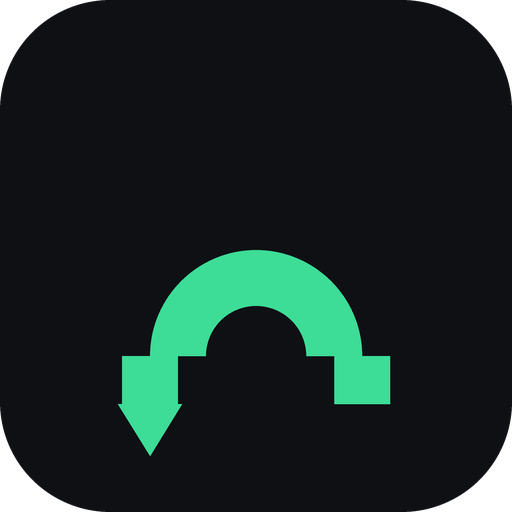
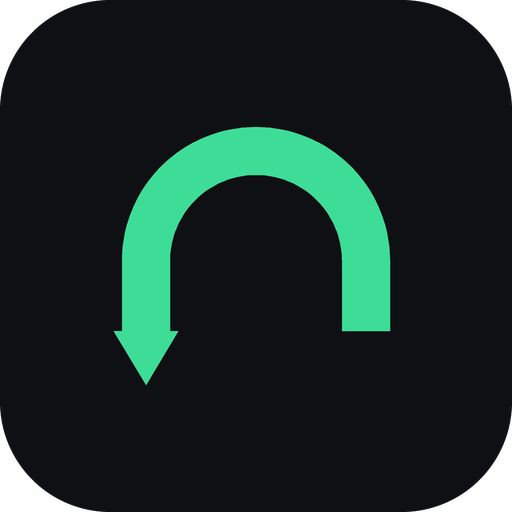
新增跨线路混合模式 + 修正图标重心
图标（用户反馈「内容偏下了」）
- 原图形重心落在 y=353，画布中心是 256 —— 偏下近 100px，是算错了
- 按「墨迹外框重心居中」重新解坐标，纵横向均落在 256
- 弧半径加大、线宽收细、腿加长，更接近路牌上的掉头标志
- 改用填充多边形一次成形，消除折线接缝
- favicon.svg 同步更新几何

跨线路混合模式（产品定位里的差异化功能）
- 题型：给一段连续项目（4 项），判断属于哪条线路
- 只出「唯一片段」——同一顺序不在其它线路出现的才拿来出题，
  否则题目本身有歧义，等于考用户猜出题人的心思
- 按线路分层抽样（每条最多 2 题），避免最独特的那条线霸占整轮
- 答错时给出对照：同一位置在所选线路上是什么，直接暴露差异点
- 首页新增入口卡片

测试
- 原 A–G + H–L 全通过
- 新增 M/N 两组：80 轮 × 2 车型的出题歧义/越界校验（全部唯一、下标合法）、
  四条线路均被覆盖、题目页与成绩页渲染

过程记录
- 首版 buildMix 用错了函数（routeItemsFor 返回原始节点，无 label 字段），
  导致标签全为 undefined、唯一片段数为 0。测试先跑出来才发现，而非上线后。

Changed region(s): [[0.2188, 0.25, 0.7812, 0.9062]]

diff --git a/prototype/index.html b/prototype/index.html
@@ -181,6 +181,30 @@
     background:var(--panel-2);color:var(--accent);font-size:12px;font-weight:600;font-family:inherit;cursor:pointer}
   .sbtn:active{transform:scale(.95)}
   .sayb{color:var(--accent-2);cursor:pointer;border-bottom:1px dashed rgba(77,163,255,.5);margin-left:7px;white-space:nowrap}
+  /* 跨线路混合 */
+  .mixhero{display:flex;align-items:center;gap:13px;margin-top:9px;padding:15px 16px;border-radius:14px;
+    background:linear-gradient(135deg,rgba(61,220,151,.1),transparent 70%),var(--panel);
+    border:1px solid rgba(61,220,151,.32);cursor:pointer}
+  .mixhero:active{transform:scale(.985)}
+  .mh-ico{width:36px;height:36px;flex:0 0 36px;border-radius:11px;background:rgba(61,220,151,.14);
+    display:flex;align-items:center;justify-content:center;font-size:16px;color:var(--accent)}
+  .mh-t{font-size:13.5px;font-weight:600;display:flex;align-items:center;gap:6px}
+  .mh-p{font-size:10.5px;color:var(--dim-2);margin-top:3px;line-height:1.5}
+  .fbadge{font-size:9.5px;font-weight:800;letter-spacing:.06em;padding:2px 6px;border-radius:5px;
+    background:rgba(61,220,151,.15);color:var(--accent)}
+  .segcard{background:var(--panel);border:1px solid var(--line);border-radius:14px;padding:16px;text-align:center}
+  .segitem{font-size:14px;font-weight:500;padding:9px 0}
+  .segarr{color:var(--dim-2);font-size:11px;line-height:1}
+  .mixopts{display:grid;grid-template-columns:1fr 1fr;gap:9px;margin-top:18px}
+  .mopt{padding:16px 10px;border-radius:12px;background:var(--panel);border:1px solid var(--line);
+    color:var(--text);font-size:14px;font-weight:600;font-family:inherit;cursor:pointer;transition:.14s}
+  .mopt:active{transform:scale(.97)}
+  .mopt.ok{background:rgba(61,220,151,.13);border-color:rgba(61,220,151,.5);color:var(--accent)}
+  .mopt.bad{background:rgba(255,107,107,.1);border-color:rgba(255,107,107,.45);color:var(--red)}
+  .cmp{margin-top:12px;padding:12px 14px;border-radius:11px;background:var(--panel);
+    font-size:11.5px;line-height:1.7;color:var(--dim)}
+  .cmp .ct{color:var(--dim-2);margin-bottom:5px}
+  .cmp .cv{color:var(--warn)}
   .fatal{padding:40px 24px;text-align:center;font-size:13px;color:var(--dim);line-height:1.9}
   .fatal b{color:var(--red);display:block;font-size:15px;margin-bottom:10px}
   @media(max-width:520px){
@@ -239,7 +263,7 @@ const LIGHTS  = window.KC3_LIGHTS;
 const OPS     = window.KC3_LIGHT_OPS;
 
 let S = { tab:'train', screen:'home', model:'c1', r:0, open:null, seen:false,
-          Q:null, L:null, sp:0, sq:null, mistakes:[], stats:{}, total:0 };
+          Q:null, L:null, sp:0, sq:null, mix:null, mistakes:[], stats:{}, total:0 };
 
 /* 本地持久化：SPA 无需后端即可保留进度 */
 const LS='kc3.v1';
@@ -289,7 +313,7 @@ function routeItems(r){
 
 /* ============================================================ 渲染 */
 function render(){
-  const M={home:vHome,order:vOrder,lights:vLights,scan:vScan,mine:vMine,special:vSpecial,sq:vSQ};
+  const M={home:vHome,order:vOrder,lights:vLights,scan:vScan,mine:vMine,special:vSpecial,sq:vSQ,mix:vMix};
   $('app').innerHTML=(M[S.screen]||vHome)();
   $('app').scrollTop=0;
   tabs(); bind(); save();
@@ -328,6 +352,15 @@ function vHome(){
         <div class="ht">灯光模拟</div><div class="hp">两车型相同 · 抽 5 题</div></div>
       <div class="hero" data-go="special"><div class="ico o">⚑</div>
         <div class="ht">难点专项</div><div class="hp">${SPECIAL[S.model].length} 个高频失分点</div></div>
+    </div>
+
+    <div class="mixhero" data-go="mix">
+      <div class="mh-ico">⇄</div>
+      <div style="flex:1">
+        <div class="mh-t">跨线路混合 <span class="fbadge">进阶</span></div>
+        <div class="mh-p">给一段「线路指纹」猜是哪条线 —— 专治「练 A 考 B」</div>
+      </div>
+      <div class="arw">›</div>
     </div>
 
     <div class="sechead">路线顺序训练</div>
@@ -559,6 +592,101 @@ function vMine(){
   </div>`;
 }
 
+/* ---------- 跨线路混合：给一段「线路指纹」，猜是哪条线 ---------- */
+const MIX_WIN = 4, MIX_SKIP = 3;   // 片段长度 / 跳过开头的通用项（上车准备·灯光·起步）
+
+/* 只保留「独此一家」的连续片段。同一个片段若在别的线路也按同样顺序出现，
+   这题就没有唯一答案——必须剔除，否则是在考用户猜出题人的心思。
+   最后按线路分层抽样（每条最多 PER 题），避免最独特的那条线霸占整轮。 */
+const MIX_PER = 2;
+function buildMix(){
+  const labels = ROUTES.map(r => routeItems(r).map(x => x.label));
+  const byRoute = ROUTES.map(() => []);
+  ROUTES.forEach((r, ri) => {
+    const a = labels[ri];
+    for(let i = MIX_SKIP; i + MIX_WIN <= a.length; i++){
+      const seg = a.slice(i, i + MIX_WIN), k = seg.join('|');
+      let dup = false;
+      for(let oi = 0; oi < labels.length && !dup; oi++){
+        if(oi === ri) continue;
+        const b = labels[oi];
+        for(let j = 0; j + MIX_WIN <= b.length; j++)
+          if(b.slice(j, j + MIX_WIN).join('|') === k){ dup = true; break; }
+      }
+      if(!dup) byRoute[ri].push({ ri, from:i, seg });
+    }
+  });
+  const picked = [];
+  byRoute.forEach(list => picked.push(...sh(list).slice(0, MIX_PER)));
+  return sh(picked);
+}
+function segAt(ri, from){
+  const b = routeItems(ROUTES[ri]).map(x => x.label);
+  return (from + MIX_WIN <= b.length) ? b.slice(from, from + MIX_WIN) : null;
+}
+
+function vMix(){
+  if(!S.mix || S.mix.model !== S.model)
+    S.mix = { model:S.model, list:buildMix(), i:0, ok:0, log:[] };
+  const X = S.mix;
+  if(!X.list.length) return `<div class="screen">
+    <div class="nav"><div class="back" data-go="home">‹</div><div class="navtitle">跨线路混合</div></div>
+    <div class="empty">当前车型下各线路差异不足以出题。</div></div>`;
+  if(X.i >= X.list.length) return vMixResult();
+
+  const q = X.list[X.i], picked = X.log[X.i], done = picked !== undefined;
+  const r = ROUTES[q.ri];
+  const pos = `第 ${q.from+1}–${q.from+MIX_WIN} 步`;
+
+  let feedback = '';
+  if(done){
+    if(picked === q.ri){
+      feedback = `<div class="expl"><b>答对了</b>｜这段是 ${r.name} 的${pos}。</div>`;
+    } else {
+      const rv = segAt(picked, q.from);
+      feedback = `<div class="expl warn"><b>是 ${r.name}</b>｜这段出现在它的${pos}。` +
+        (rv ? `<div class="cmp"><div class="ct">对照 · ${ROUTES[picked].name} 在同一位置是：</div>
+                 <div class="cv">${rv.join(' → ')}</div></div>` : '') +
+        `</div>`;
+    }
+  }
+
+  return `<div class="screen">
+    <div class="nav"><div class="back" data-go="home">‹</div>
+      <div><div class="navtitle">跨线路混合</div>
+      <div class="navsub">第 ${X.i+1}/${X.list.length} 题 · ${MODEL_NAME[S.model]}</div></div>
+      <div class="spacer"></div><div class="navsub" style="color:var(--accent)">✓ ${X.ok}</div></div>
+
+    <div class="note" style="margin:0 0 12px">下面这串项目按这个顺序<b style="color:var(--accent)">只可能出现一条线路上</b>。想想是哪条？</div>
+
+    <div class="segcard">
+      ${q.seg.map((s,i)=>`${i?'<div class="segarr">↓</div>':''}<div class="segitem">${s}</div>`).join('')}
+    </div>
+
+    <div class="mixopts">${ROUTES.map((x,i)=>{
+      let c=''; if(done){ if(i===q.ri) c='ok'; else if(i===picked) c='bad'; }
+      return `<button class="mopt ${c}" ${done?'disabled':''} data-mix="${i}">${x.name}</button>`;}).join('')}</div>
+
+    ${feedback}
+    ${done?`<div class="btm"><button class="btn" data-act="mixnext">${X.i+1<X.list.length?'下一题':'看成绩'}</button></div>`:''}
+  </div>`;
+}
+
+function vMixResult(){
+  const X = S.mix;
+  const score = Math.round(X.ok / X.list.length * 100);
+  return `<div class="screen">
+    <div class="nav"><div class="back" data-go="home">‹</div><div class="navtitle">跨线路混合 · 成绩</div></div>
+    <div class="score"><div class="big">${score}</div>
+      <div class="lab">${X.ok===X.list.length?'全部认对，线路已经分得清了':'分不清的地方，正是要练的地方'}</div></div>
+    <div class="stat">
+      <div class="s"><b style="color:var(--accent)">${X.ok}</b><span>答对</span></div>
+      <div class="s"><b style="color:var(--red)">${X.list.length-X.ok}</b><span>答错</span></div>
+    </div>
+    <div class="btm"><button class="btn ghost" data-act="mixreset">再来一轮</button></div>
+  </div>`;
+}
+
 /* 顺序题提交后的统计与错题记录（抽成独立函数便于测试） */
 function recordOrderResult(){
   const q=S.Q;
@@ -579,6 +707,7 @@ function bind(){
     const g=el.dataset.go;
     if(g==='lights') S.L=null;
     if(g==='special') S.sq=null;
+    if(g==='mix') S.mix=null;
     S.screen=g; if(g==='home') S.tab='train'; if(g==='scan') S.tab='scan';
     render();
   });
@@ -588,7 +717,7 @@ function bind(){
   });
   document.querySelectorAll('[data-model]').forEach(el=>el.onclick=()=>{
     if(el.dataset.model===S.model) return;
-    S.model=el.dataset.model; S.Q=null; S.sq=null; S.open=null; render();
+    S.model=el.dataset.model; S.Q=null; S.sq=null; S.open=null; S.mix=null; render();
   });
   document.querySelectorAll('[data-r]').forEach(el=>el.onclick=()=>{
     S.r=+el.dataset.r; S.Q=null; S.open=null; S.screen='order'; render();
@@ -631,6 +760,17 @@ function bind(){
     S.mistakes=S.mistakes.slice(0,20); render();
   });
 
+  /* 跨线路混合 */
+  document.querySelectorAll('[data-mix]').forEach(el=>el.onclick=()=>{
+    const X=S.mix; if(!X || X.log[X.i]!==undefined) return;
+    const i=+el.dataset.mix, q=X.list[X.i];
+    X.log[X.i]=i;
+    if(i===q.ri) X.ok++;
+    else S.mistakes.unshift({q:`线路辨认：「${q.seg[0]}…」属于哪条线 → ${ROUTES[q.ri].name}`,
+                             from:MODEL_NAME[S.model]+' · 跨线路混合'});
+    S.mistakes=S.mistakes.slice(0,20); render();
+  });
+
   /* 灯光 */
   document.querySelectorAll('[data-o]').forEach(el=>el.onclick=()=>{
     const L=S.L; if(!L||L.log[L.i]) return;
@@ -653,6 +793,8 @@ function bind(){
       S.mistakes=S.mistakes.slice(0,20);
     }
     if(a==='sredo') S.sq=null;
+    if(a==='mixnext') S.mix.i++;
+    if(a==='mixreset') S.mix=null;
     if(a==='lnext') S.L.i++;
     if(a==='lreset') S.L=null;
     render();
